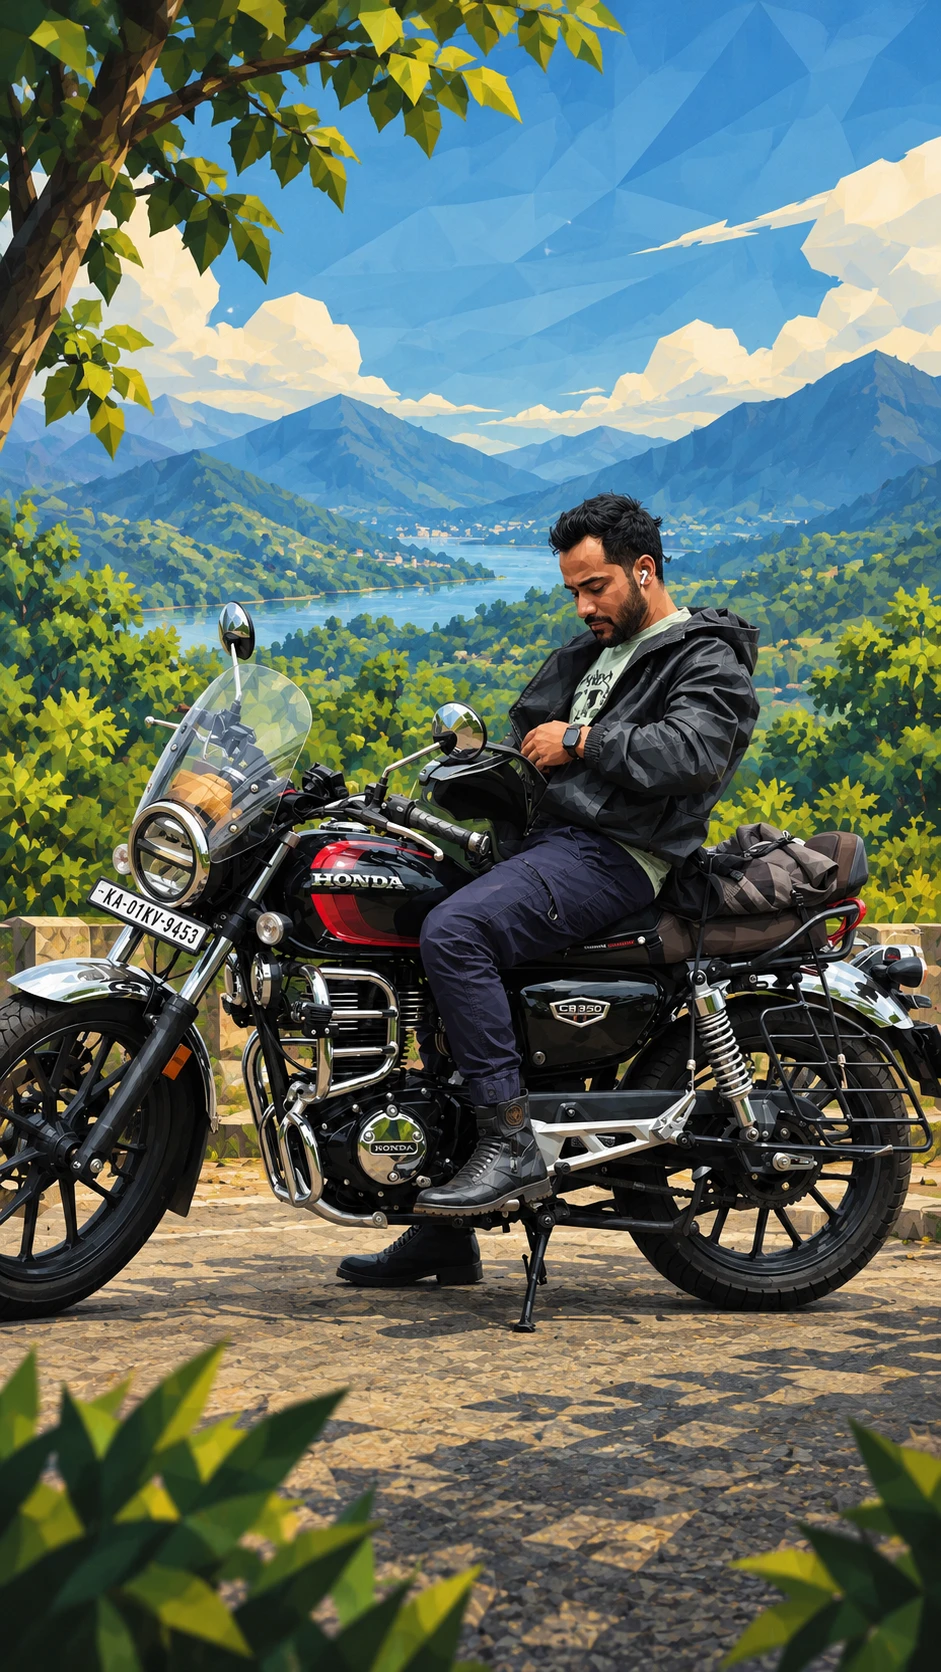
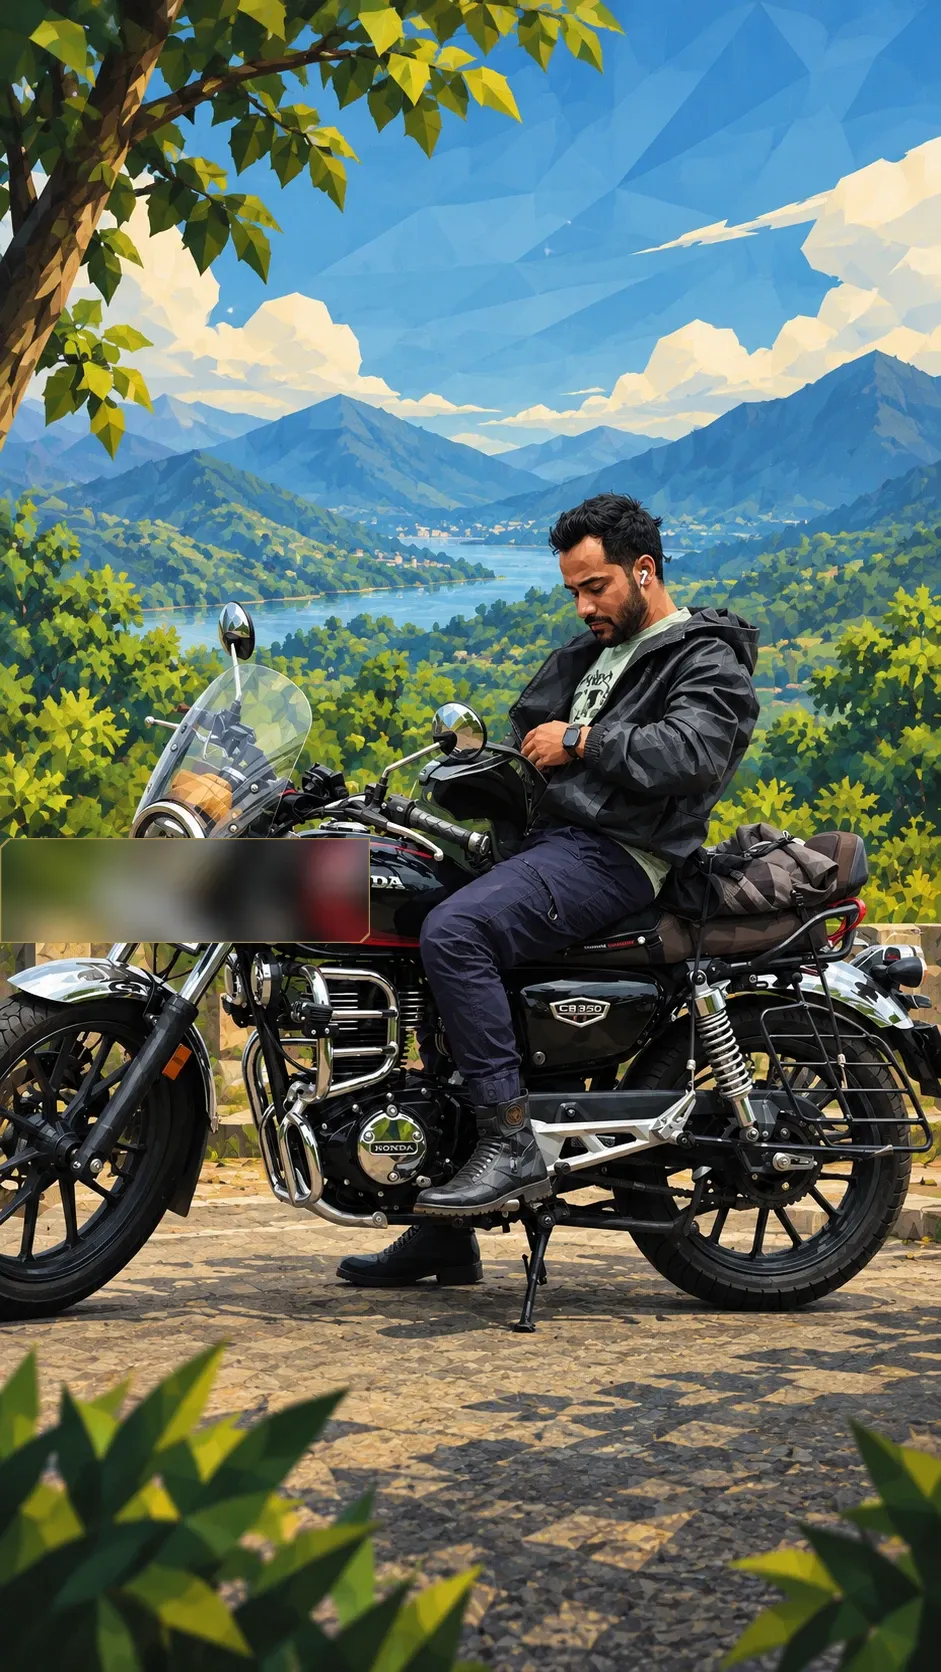
Hero: crystalline facet mask; blur plates; tiny footer credit
Replace the hero photo's single cut-corner with a multi-facet
crystalline mask (matching the low-poly plane language used
elsewhere in the site), with a colour-blocked gold facet and a
gold seam outline instead of a plain crop. Caption split into two
properly-contrasted labels so it doesn't straddle the seam.

Blur the visible number plate in the three photos that show it
(aashish-checking-time, aashish-overlook, motorcycle-sunset),
framed with the same chamfered-gold-outline treatment so it reads
as a deliberate design chip rather than a redaction smear.

Add a tiny, near-invisible "love to PB" credit to the footer.

Changed region(s): [[0.0, 0.4976, 0.4006, 0.5909]]

diff --git a/src/components/Hero.tsx b/src/components/Hero.tsx
@@ -72,38 +72,78 @@ export default function Hero() {
   );
 }
 
+// The same "large coherent planes" faceting language as CaseStudyCover's
+// low-poly art — a crystalline silhouette instead of a single rounded/cut
+// corner. Both chamfers stay clear of the subject (face sits centred,
+// roughly 25–75% x / 5–55% y): the top-left facet is a small sliver, the
+// bottom-right facet is a deep cut through empty road/foliage.
+const PHOTO_MASK = "polygon(14% 0%, 100% 0%, 100% 64%, 78% 100%, 0% 100%, 0% 18%)";
+const CORNER_FACET = "polygon(100% 64%, 100% 100%, 78% 100%)";
+
 function HeroPhoto({ objectPosition }: { objectPosition: string }) {
   return (
-    <div className="cut-corner group relative h-full w-full overflow-hidden border border-line">
-      <Image
-        src="/images/aashish-hero.webp"
-        alt="Aashish Pandey, geometric editorial illustration, on a mountain road"
-        fill
-        priority
-        sizes="(min-width: 1024px) 42vw, 100vw"
-        className="object-cover"
-        style={{ objectPosition }}
-      />
-      {/* A warm colour wash over the photo — ties the art-directed
-          illustration into the site's own palette, poster-style, rather
-          than sitting as a flat, unrelated photo. */}
+    <div className="group relative h-full w-full overflow-hidden">
+      {/* The brand-colour plane sitting behind the photo, revealed only in
+          the chamfered corner — the same colour-blocked facet treatment as
+          the site's other geometric artwork. */}
       <div
         className="pointer-events-none absolute inset-0"
-        style={{
-          background: "linear-gradient(150deg, var(--gold) 0%, transparent 55%)",
-          mixBlendMode: "color",
-          opacity: 0.35,
-        }}
+        style={{ clipPath: CORNER_FACET, background: "var(--gold)" }}
+        aria-hidden
       />
-      <div
-        className="pointer-events-none absolute inset-0"
-        style={{
-          background: "linear-gradient(0deg, var(--night) 0%, transparent 22%)",
-          opacity: 0.6,
-        }}
-      />
-      <span className="pointer-events-none absolute bottom-4 right-4 text-[10px] font-bold uppercase tracking-[0.1em] text-[var(--sand)] opacity-80">
-        AP / Field — Pune, IN
+
+      <div className="absolute inset-0" style={{ clipPath: PHOTO_MASK }}>
+        <Image
+          src="/images/aashish-hero.webp"
+          alt="Aashish Pandey, geometric editorial illustration, on a mountain road"
+          fill
+          priority
+          sizes="(min-width: 1024px) 42vw, 100vw"
+          className="object-cover"
+          style={{ objectPosition }}
+        />
+        {/* A warm colour wash over the photo — ties the art-directed
+            illustration into the site's own palette, poster-style, rather
+            than sitting as a flat, unrelated photo. */}
+        <div
+          className="pointer-events-none absolute inset-0"
+          style={{
+            background: "linear-gradient(150deg, var(--gold) 0%, transparent 55%)",
+            mixBlendMode: "color",
+            opacity: 0.35,
+          }}
+        />
+        <div
+          className="pointer-events-none absolute inset-0"
+          style={{
+            background: "linear-gradient(0deg, var(--night) 0%, transparent 22%)",
+            opacity: 0.6,
+          }}
+        />
+      </div>
+
+      {/* A crisp gold seam along the facet edges — the "cut glass" line
+          that reads as geometry rather than a soft crop. */}
+      <svg
+        viewBox="0 0 100 100"
+        preserveAspectRatio="none"
+        className="pointer-events-none absolute inset-0 h-full w-full"
+        aria-hidden
+      >
+        <polygon
+          points="14,0 100,0 100,64 78,100 0,100 0,18"
+          fill="none"
+          stroke="var(--gold)"
+          strokeWidth="0.4"
+          vectorEffect="non-scaling-stroke"
+        />
+      </svg>
+
+      <span className="pointer-events-none absolute bottom-4 left-4 text-[10px] font-bold uppercase tracking-[0.1em] text-[var(--sand)] opacity-80">
+        AP / Field
+      </span>
+      <span className="pointer-events-none absolute bottom-4 right-4 text-[10px] font-bold uppercase tracking-[0.1em] text-[var(--night)] opacity-90">
+        Pune, IN
       </span>
     </div>
   );

diff --git a/src/components/Footer.tsx b/src/components/Footer.tsx
@@ -56,6 +56,10 @@ export default function Footer() {
             <span className="meta">© {new Date().getFullYear()} Aashish Pandey</span>
           </div>
         </div>
+
+        <p className="mt-6 text-center text-[9px] uppercase tracking-[0.08em] text-muted opacity-50">
+          love to PB ❤
+        </p>
       </div>
     </footer>
   );
